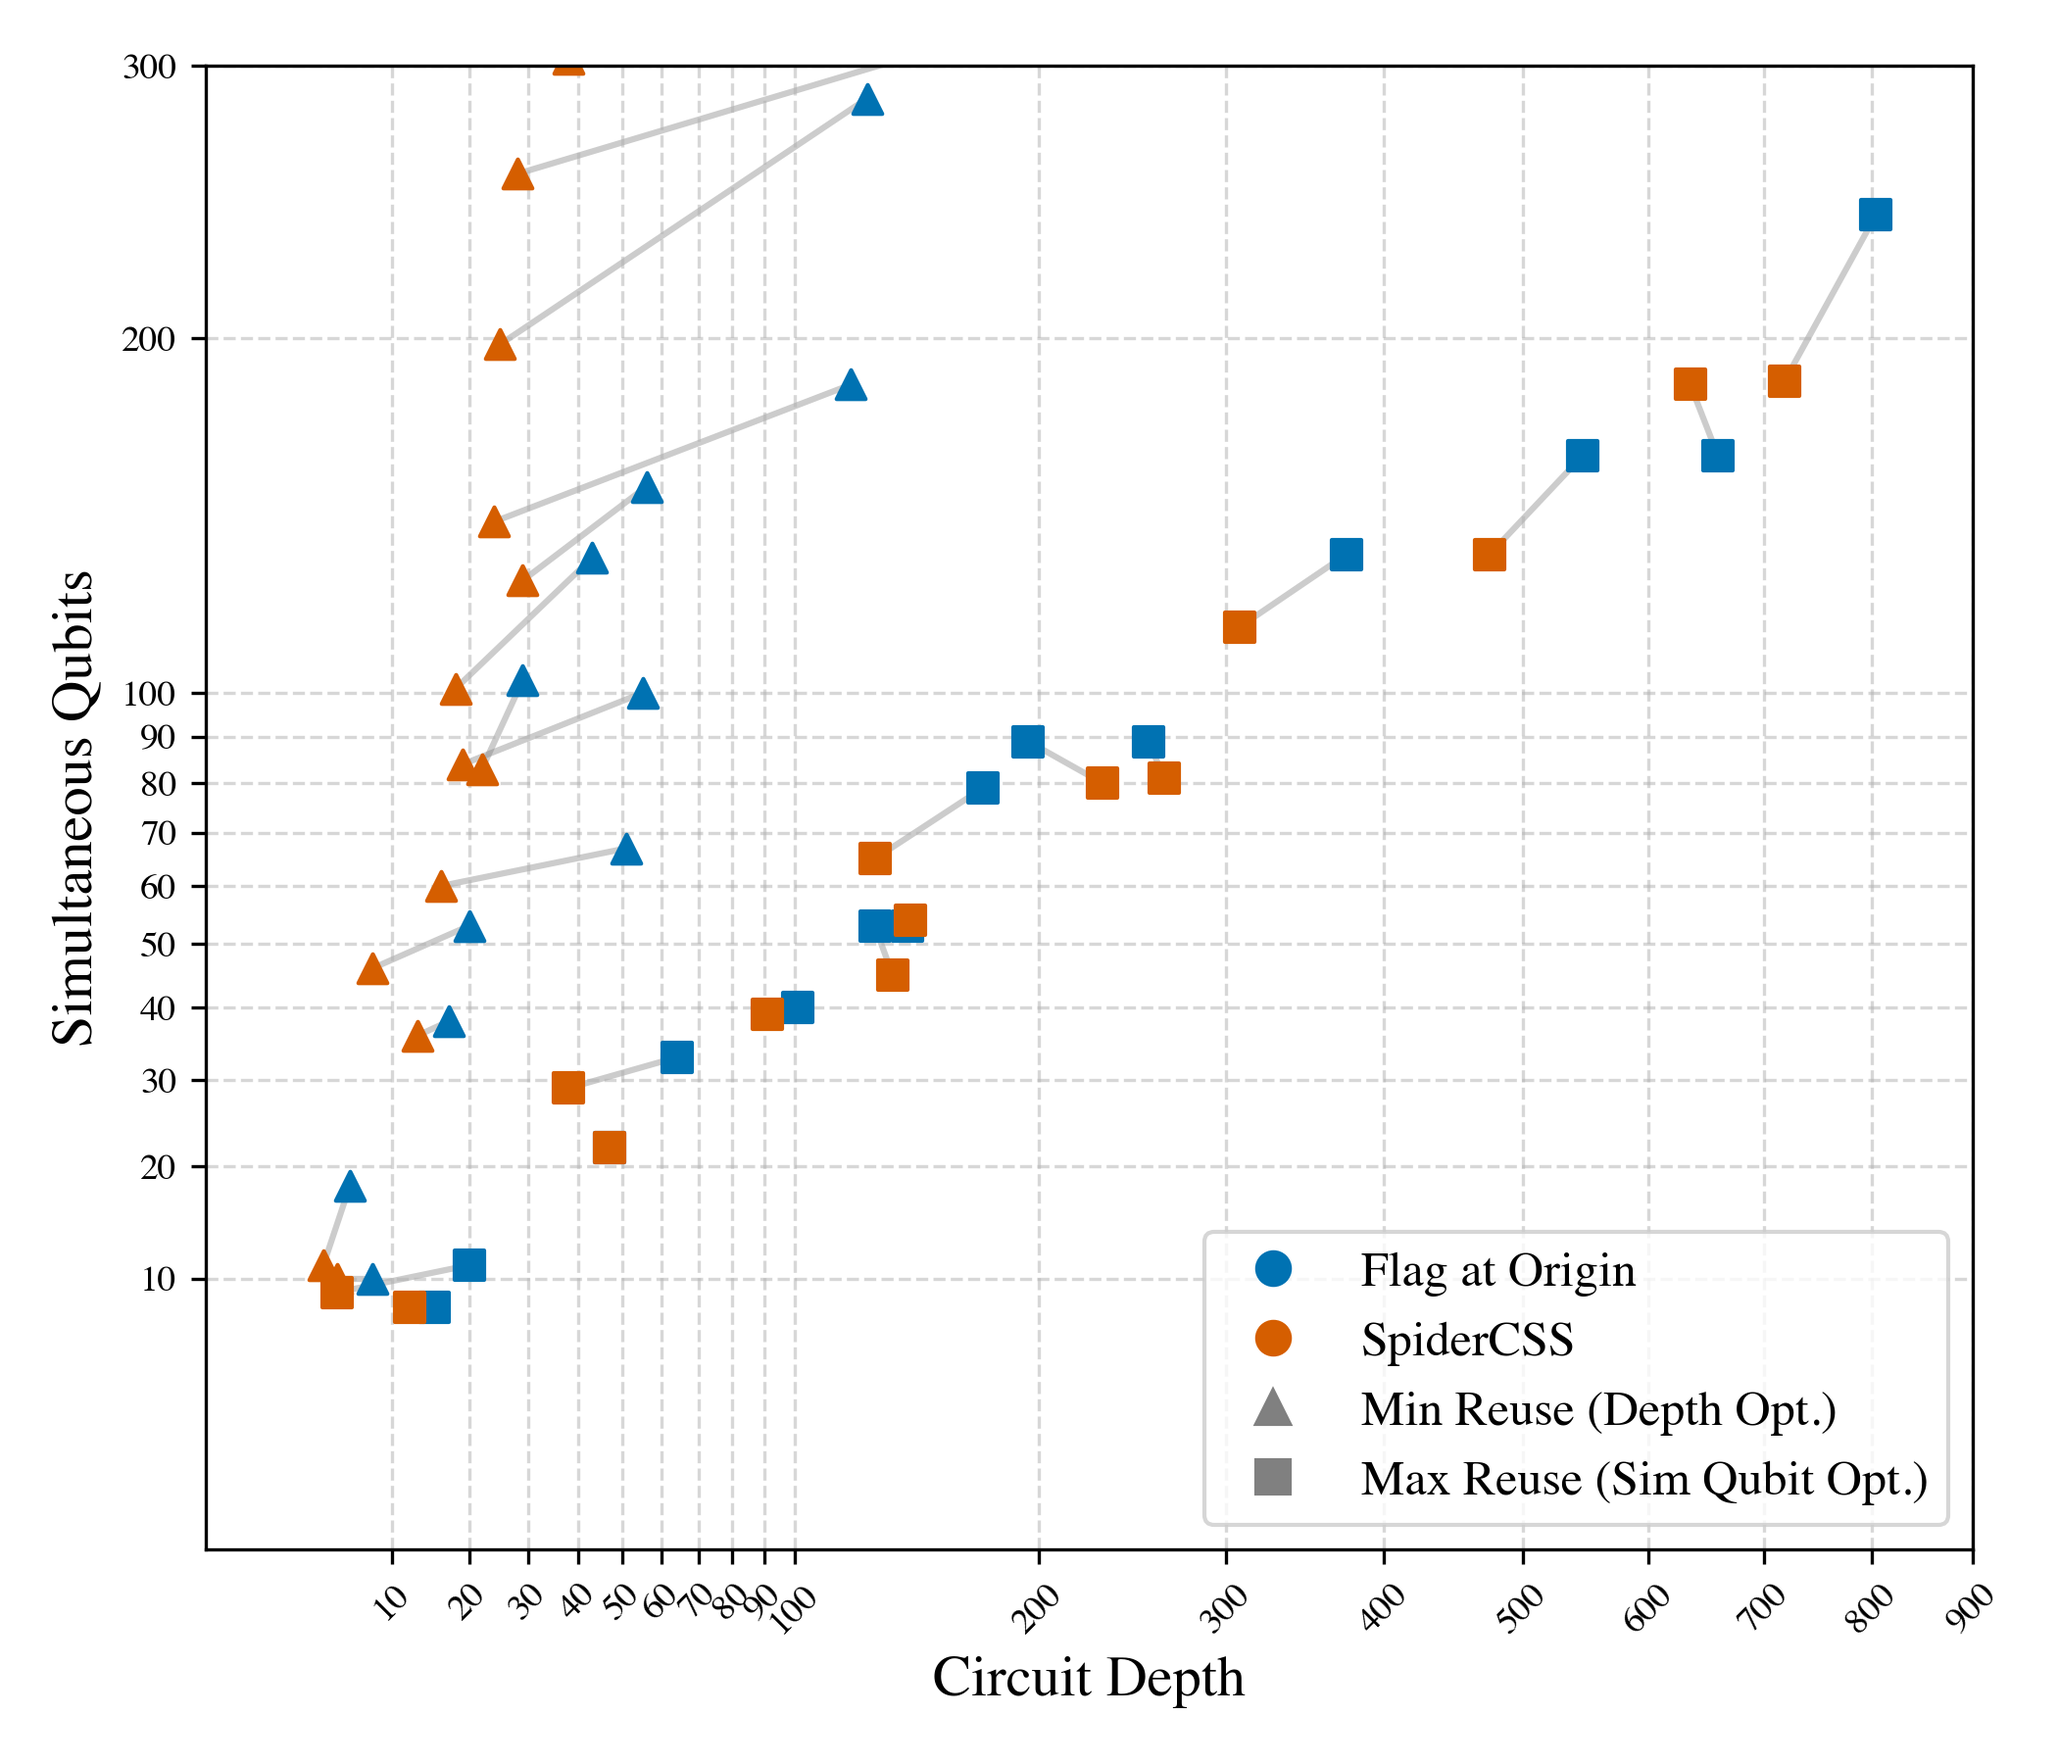
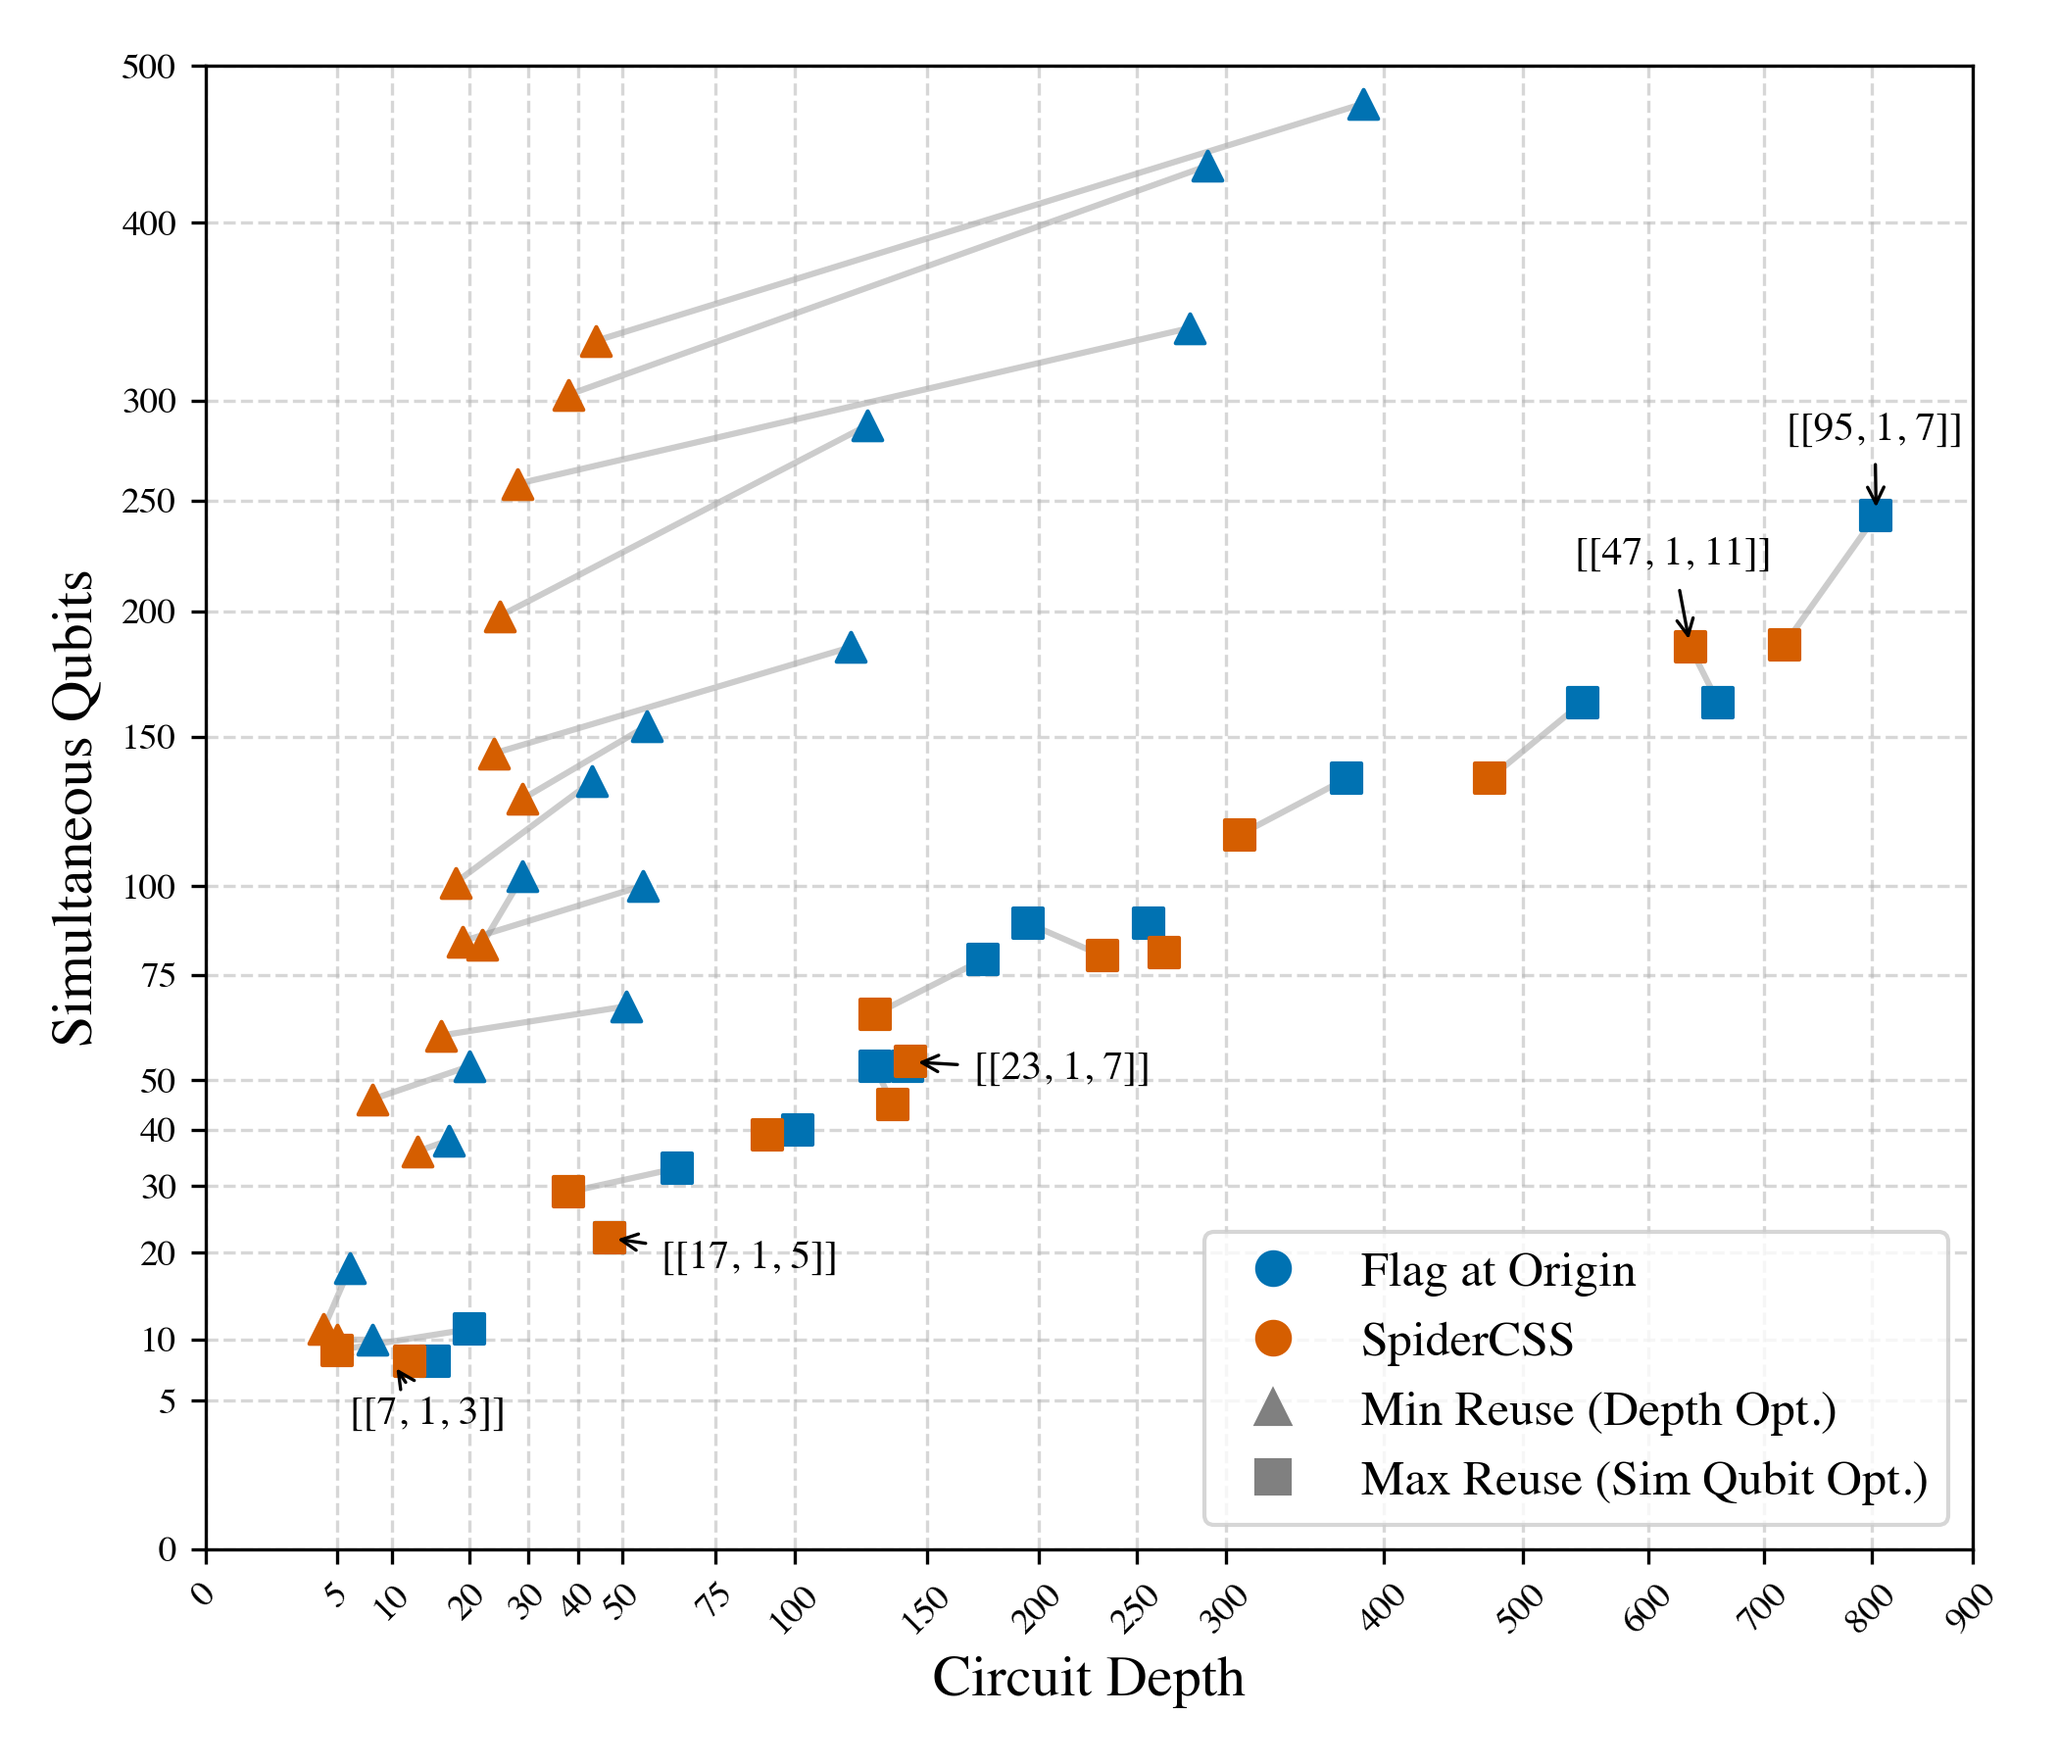
Add manual labels to representative codes in depth vs qubits scatter plot

diff --git a/spidercss/visualize.py b/spidercss/visualize.py
@@ -248,15 +248,27 @@ def plot_depth_sim_qubits_scatter(codes, grouped_stats, fao_stats, colors, plots
     plt.xscale("function", functions=(lambda x: x**0.5, lambda x: x**2))
     plt.yscale("function", functions=(lambda x: x**0.5, lambda x: x**2))
     
-    ticks = [10, 20, 30, 40, 50, 60, 70, 80, 90, 100, 200, 300, 400, 500, 600, 700, 800, 900]
+    ticks = [0,5,10,20,30,40,50,75,100,150,200,250,300,400,500,600,700,800,900]
     ax = plt.gca()
     ax.set_xticks(ticks)
-    ax.set_yticks([t for t in ticks if t <= 300])
+    ax.set_yticks([t for t in ticks if t <= 500])
     ax.set_xlim(0, 900)
-    ax.set_ylim(0, 300)
+    ax.set_ylim(0, 500)
     ax.tick_params(axis='x', rotation=45, labelsize=9)
     ax.tick_params(axis='y', labelsize=9)
     
+    # Manual labels for selected representative codes
+    ax.annotate("[[7, 1, 3]]", xy=(10, 8), xytext=(6, 3.5), fontsize=10,
+                arrowprops=dict(arrowstyle="->", color="black", lw=0.8))
+    ax.annotate("[[17, 1, 5]]", xy=(47, 22), xytext=(60, 18), fontsize=10,
+                arrowprops=dict(arrowstyle="->", color="black", lw=0.8))
+    ax.annotate("[[23, 1, 7]]", xy=(143, 54), xytext=(170, 50), fontsize=10,
+                arrowprops=dict(arrowstyle="->", color="black", lw=0.8))
+    ax.annotate("[[47, 1, 11]]", xy=(635, 185), xytext=(540, 220), fontsize=10,
+                arrowprops=dict(arrowstyle="->", color="black", lw=0.8))
+    ax.annotate("[[95, 1, 7]]", xy=(804, 243), xytext=(720, 280), fontsize=10,
+                arrowprops=dict(arrowstyle="->", color="black", lw=0.8))
+
     plt.xlabel("Circuit Depth")
     plt.ylabel("Simultaneous Qubits")
     plt.grid(True, which="both", ls="--", alpha=0.5)
@@ -268,7 +280,7 @@ def plot_depth_sim_qubits_scatter(codes, grouped_stats, fao_stats, colors, plots
     min_reuse_marker = mlines.Line2D([], [], color='gray', marker='^', linestyle='None', markersize=8, label='Min Reuse (Depth Opt.)')
     max_reuse_marker = mlines.Line2D([], [], color='gray', marker='s', linestyle='None', markersize=8, label='Max Reuse (Sim Qubit Opt.)')
     
-    plt.legend(handles=[fao_marker, spider_marker, min_reuse_marker, max_reuse_marker])
+    plt.legend(handles=[fao_marker, spider_marker, min_reuse_marker, max_reuse_marker], loc='lower right')
     plt.tight_layout()
     plt.savefig(os.path.join(plots_dir, "depth_sim_qubits_scatter.png"), dpi=300)
     plt.savefig(os.path.join(plots_dir, "depth_sim_qubits_scatter.pdf"))
